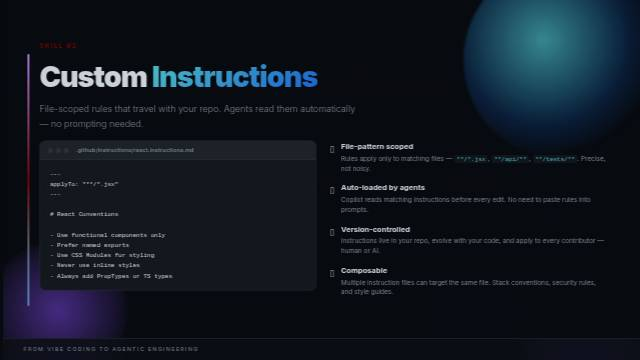
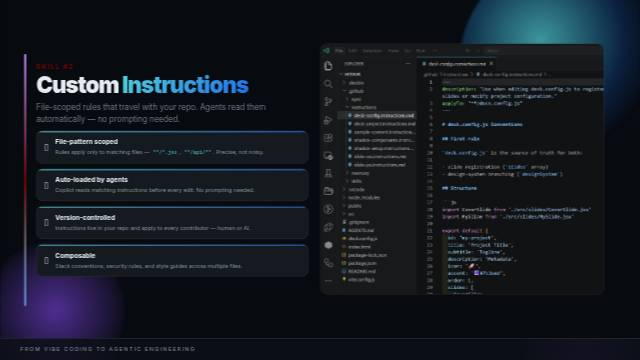
Auto-save from DECKIO — 2026-04-07T08:47

Changed region(s): [[0.0, 0.0, 0.9688, 0.9167], [0.0312, 0.9472, 0.3125, 0.9778]]

diff --git a/src/slides/CustomInstructions.jsx b/src/slides/CustomInstructions.jsx
@@ -1,4 +1,5 @@
 import { BottomBar, Slide } from '@deckio/deck-engine'
+import instructionsScreenshot from '../data/custom-instructions-screenshot.png'
 import styles from './CustomInstructions.module.css'
 
 export default function CustomInstructions({ index, project }) {
@@ -9,66 +10,50 @@ export default function CustomInstructions({ index, project }) {
       <div className={`orb ${styles.orb2}`} />
 
       <div className={`${styles.body} content-frame content-gutter`}>
-        <p className={styles.eyebrow}>Skill #2</p>
-        <h1>
-          Custom <span className={styles.highlight}>Instructions</span>
-        </h1>
-        <p className={styles.subtitle}>
-          File-scoped rules that travel with your repo. Agents read them automatically — no prompting needed.
-        </p>
-
         <div className={styles.columns}>
-          <div className={styles.codeCard}>
-            <div className={styles.codeHeader}>
-              <span className={styles.codeDot} />
-              <span className={styles.codeDot} />
-              <span className={styles.codeDot} />
-              <span className={styles.codeTitle}>.github/instructions/react.instructions.md</span>
+          <div className={styles.left}>
+            <div>
+              <p className={styles.eyebrow}>Skill #2</p>
+              <h1>
+                Custom <span className={styles.highlight}>Instructions</span>
+              </h1>
+              <p className={styles.subtitle}>File-scoped rules that travel with your repo. Agents read them automatically — no prompting needed.</p>
             </div>
-            <pre className={styles.codeBlock}>
-{`---
-applyTo: "**/*.jsx"
----
 
-# React Conventions
-
-- Use functional components only
-- Prefer named exports
-- Use CSS Modules for styling
-- Never use inline styles
-- Always add PropTypes or TS types`}
-            </pre>
+            <div className={styles.cards}>
+              <div className={styles.card}>
+                <div className={styles.cardIcon}>📁</div>
+                <div>
+                  <h3>File-pattern scoped</h3>
+                  <p>Rules apply only to matching files — <code>**/*.jsx</code>, <code>**/api/**</code>. Precise, not noisy.</p>
+                </div>
+              </div>
+              <div className={styles.card}>
+                <div className={styles.cardIcon}>🤖</div>
+                <div>
+                  <h3>Auto-loaded by agents</h3>
+                  <p>Copilot reads matching instructions before every edit. No prompting needed.</p>
+                </div>
+              </div>
+              <div className={styles.card}>
+                <div className={styles.cardIcon}>🔄</div>
+                <div>
+                  <h3>Version-controlled</h3>
+                  <p>Instructions live in your repo and apply to every contributor — human or AI.</p>
+                </div>
+              </div>
+              <div className={styles.card}>
+                <div className={styles.cardIcon}>🧱</div>
+                <div>
+                  <h3>Composable</h3>
+                  <p>Stack conventions, security rules, and style guides across multiple files.</p>
+                </div>
+              </div>
+            </div>
           </div>
 
-          <div className={styles.benefits}>
-            <div className={styles.benefitItem}>
-              <span className={styles.benefitIcon}>📁</span>
-              <div>
-                <h3>File-pattern scoped</h3>
-                <p>Rules apply only to matching files — <code>**/*.jsx</code>, <code>**/api/**</code>, <code>**/tests/**</code>. Precise, not noisy.</p>
-              </div>
-            </div>
-            <div className={styles.benefitItem}>
-              <span className={styles.benefitIcon}>🤖</span>
-              <div>
-                <h3>Auto-loaded by agents</h3>
-                <p>Copilot reads matching instructions before every edit. No need to paste rules into prompts.</p>
-              </div>
-            </div>
-            <div className={styles.benefitItem}>
-              <span className={styles.benefitIcon}>🔄</span>
-              <div>
-                <h3>Version-controlled</h3>
-                <p>Instructions live in your repo, evolve with your code, and apply to every contributor — human or AI.</p>
-              </div>
-            </div>
-            <div className={styles.benefitItem}>
-              <span className={styles.benefitIcon}>🧱</span>
-              <div>
-                <h3>Composable</h3>
-                <p>Multiple instruction files can target the same file. Stack conventions, security rules, and style guides.</p>
-              </div>
-            </div>
+          <div className={styles.screenshotWrapper}>
+            <img src={instructionsScreenshot} alt="Custom Instructions in VS Code" className={styles.screenshot} />
           </div>
         </div>
       </div>

diff --git a/src/slides/CustomInstructions.module.css b/src/slides/CustomInstructions.module.css
@@ -34,7 +34,8 @@
   z-index: 10;
   display: flex;
   flex-direction: column;
-  gap: 20px;
+  flex: 1;
+  min-height: 0;
 }
 
 .eyebrow {
@@ -43,10 +44,11 @@
   text-transform: uppercase;
   letter-spacing: 2.5px;
   color: var(--accent);
+  margin-bottom: 4px;
 }
 
 .body h1 {
-  font-size: clamp(36px, 4.5vw, 64px);
+  font-size: clamp(30px, 3.5vw, 48px);
   font-weight: 900;
   line-height: 1.08;
   letter-spacing: -2px;
@@ -60,97 +62,98 @@
 }
 
 .subtitle {
-  font-size: clamp(15px, 1.5vw, 18px);
+  font-size: clamp(13px, 1.3vw, 16px);
   font-weight: 300;
   color: var(--muted-foreground);
-  line-height: 1.6;
-  max-width: 640px;
+  line-height: 1.5;
+  margin-top: 6px;
 }
 
 .columns {
   display: grid;
-  grid-template-columns: 1fr 1fr;
-  gap: 28px;
-  align-items: start;
+  grid-template-columns: 1fr 50%;
+  gap: 24px;
+  flex: 1;
+  min-height: 0;
 }
 
-.codeCard {
+.left {
+  display: flex;
+  flex-direction: column;
+  gap: 12px;
+  min-height: 0;
+  justify-content: center;
+}
+
+.cards {
+  display: grid;
+  grid-template-columns: 1fr;
+  gap: 10px;
+}
+
+.card {
+  position: relative;
+  overflow: hidden;
   background: var(--secondary);
   border: 1px solid var(--border);
   border-radius: 12px;
-  overflow: hidden;
-}
-
-.codeHeader {
+  padding: 12px 16px;
   display: flex;
   align-items: center;
-  gap: 6px;
-  padding: 10px 16px;
-  background: color-mix(in srgb, var(--border) 40%, transparent);
-  border-bottom: 1px solid var(--border);
-}
-
-.codeDot {
-  width: 10px;
-  height: 10px;
-  border-radius: 50%;
-  background: var(--border);
-}
-
-.codeTitle {
-  margin-left: 8px;
-  font-size: 11px;
-  font-weight: 600;
-  color: var(--muted-foreground);
-  letter-spacing: 0.3px;
-}
-
-.codeBlock {
-  padding: 18px 20px;
-  font-family: 'JetBrains Mono', 'Fira Code', monospace;
-  font-size: 12px;
-  line-height: 1.7;
-  color: var(--foreground);
-  margin: 0;
-  overflow: hidden;
-  white-space: pre-wrap;
-}
-
-.benefits {
-  display: flex;
-  flex-direction: column;
-  gap: 18px;
-}
-
-.benefitItem {
-  display: flex;
-  align-items: flex-start;
   gap: 14px;
 }
 
-.benefitIcon {
+.card::before {
+  content: '';
+  position: absolute;
+  top: 0;
+  left: 0;
+  right: 0;
+  height: 3px;
+  background: linear-gradient(90deg, var(--cyan), var(--blue-glow));
+  opacity: 0.6;
+}
+
+.cardIcon {
   font-size: 20px;
   flex-shrink: 0;
-  margin-top: 2px;
 }
 
-.benefitItem h3 {
-  font-size: 15px;
+.card h3 {
+  font-size: 13px;
   font-weight: 700;
   color: var(--foreground);
-  margin-bottom: 3px;
+  margin-bottom: 4px;
 }
 
-.benefitItem p {
-  font-size: 13px;
+.card p {
+  font-size: 11px;
   color: var(--muted-foreground);
-  line-height: 1.5;
+  line-height: 1.45;
 }
 
-.benefitItem code {
-  font-size: 12px;
+.card code {
+  font-size: 10px;
   background: var(--surface-overlay);
-  padding: 1px 5px;
-  border-radius: 4px;
+  padding: 1px 4px;
+  border-radius: 3px;
   color: var(--cyan);
+}
+
+.screenshotWrapper {
+  border: 1px solid var(--border);
+  border-radius: 14px;
+  overflow: hidden;
+  min-height: 0;
+  max-height: 85%;
+  align-self: center;
+}
+
+.screenshot {
+  display: block;
+  width: 100%;
+  height: 100%;
+  object-fit: cover;
+  object-position: top left;
+  max-height: 100%;
 }
